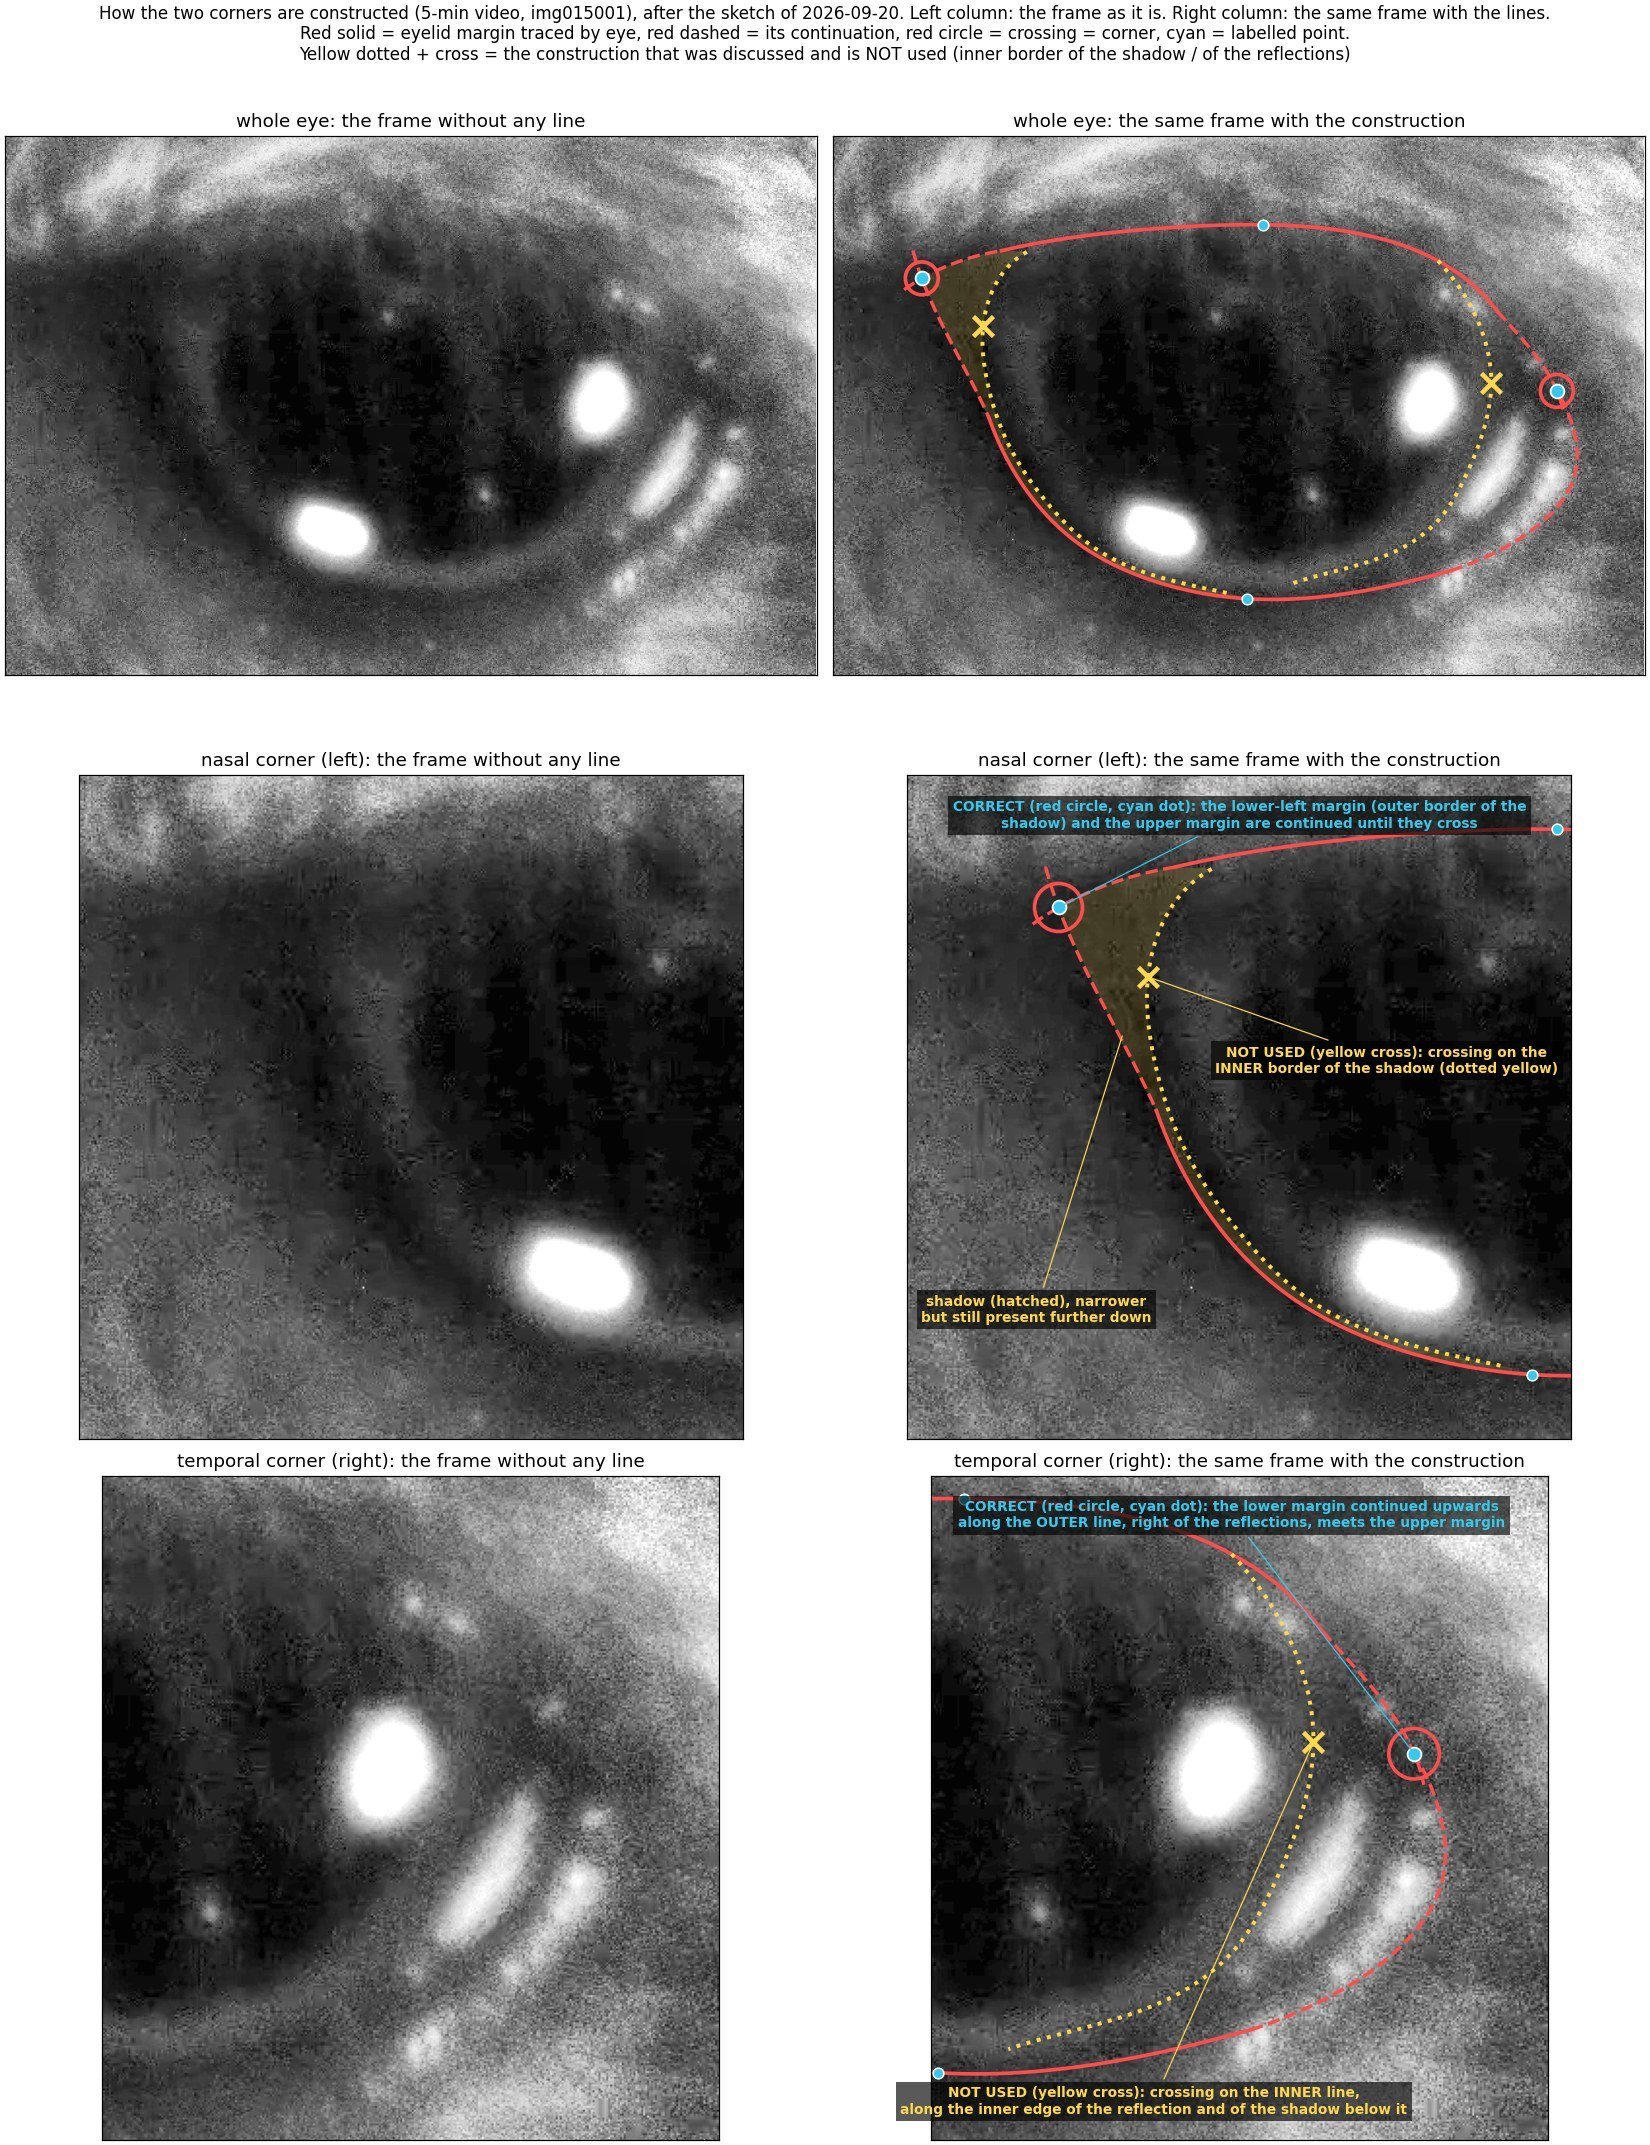
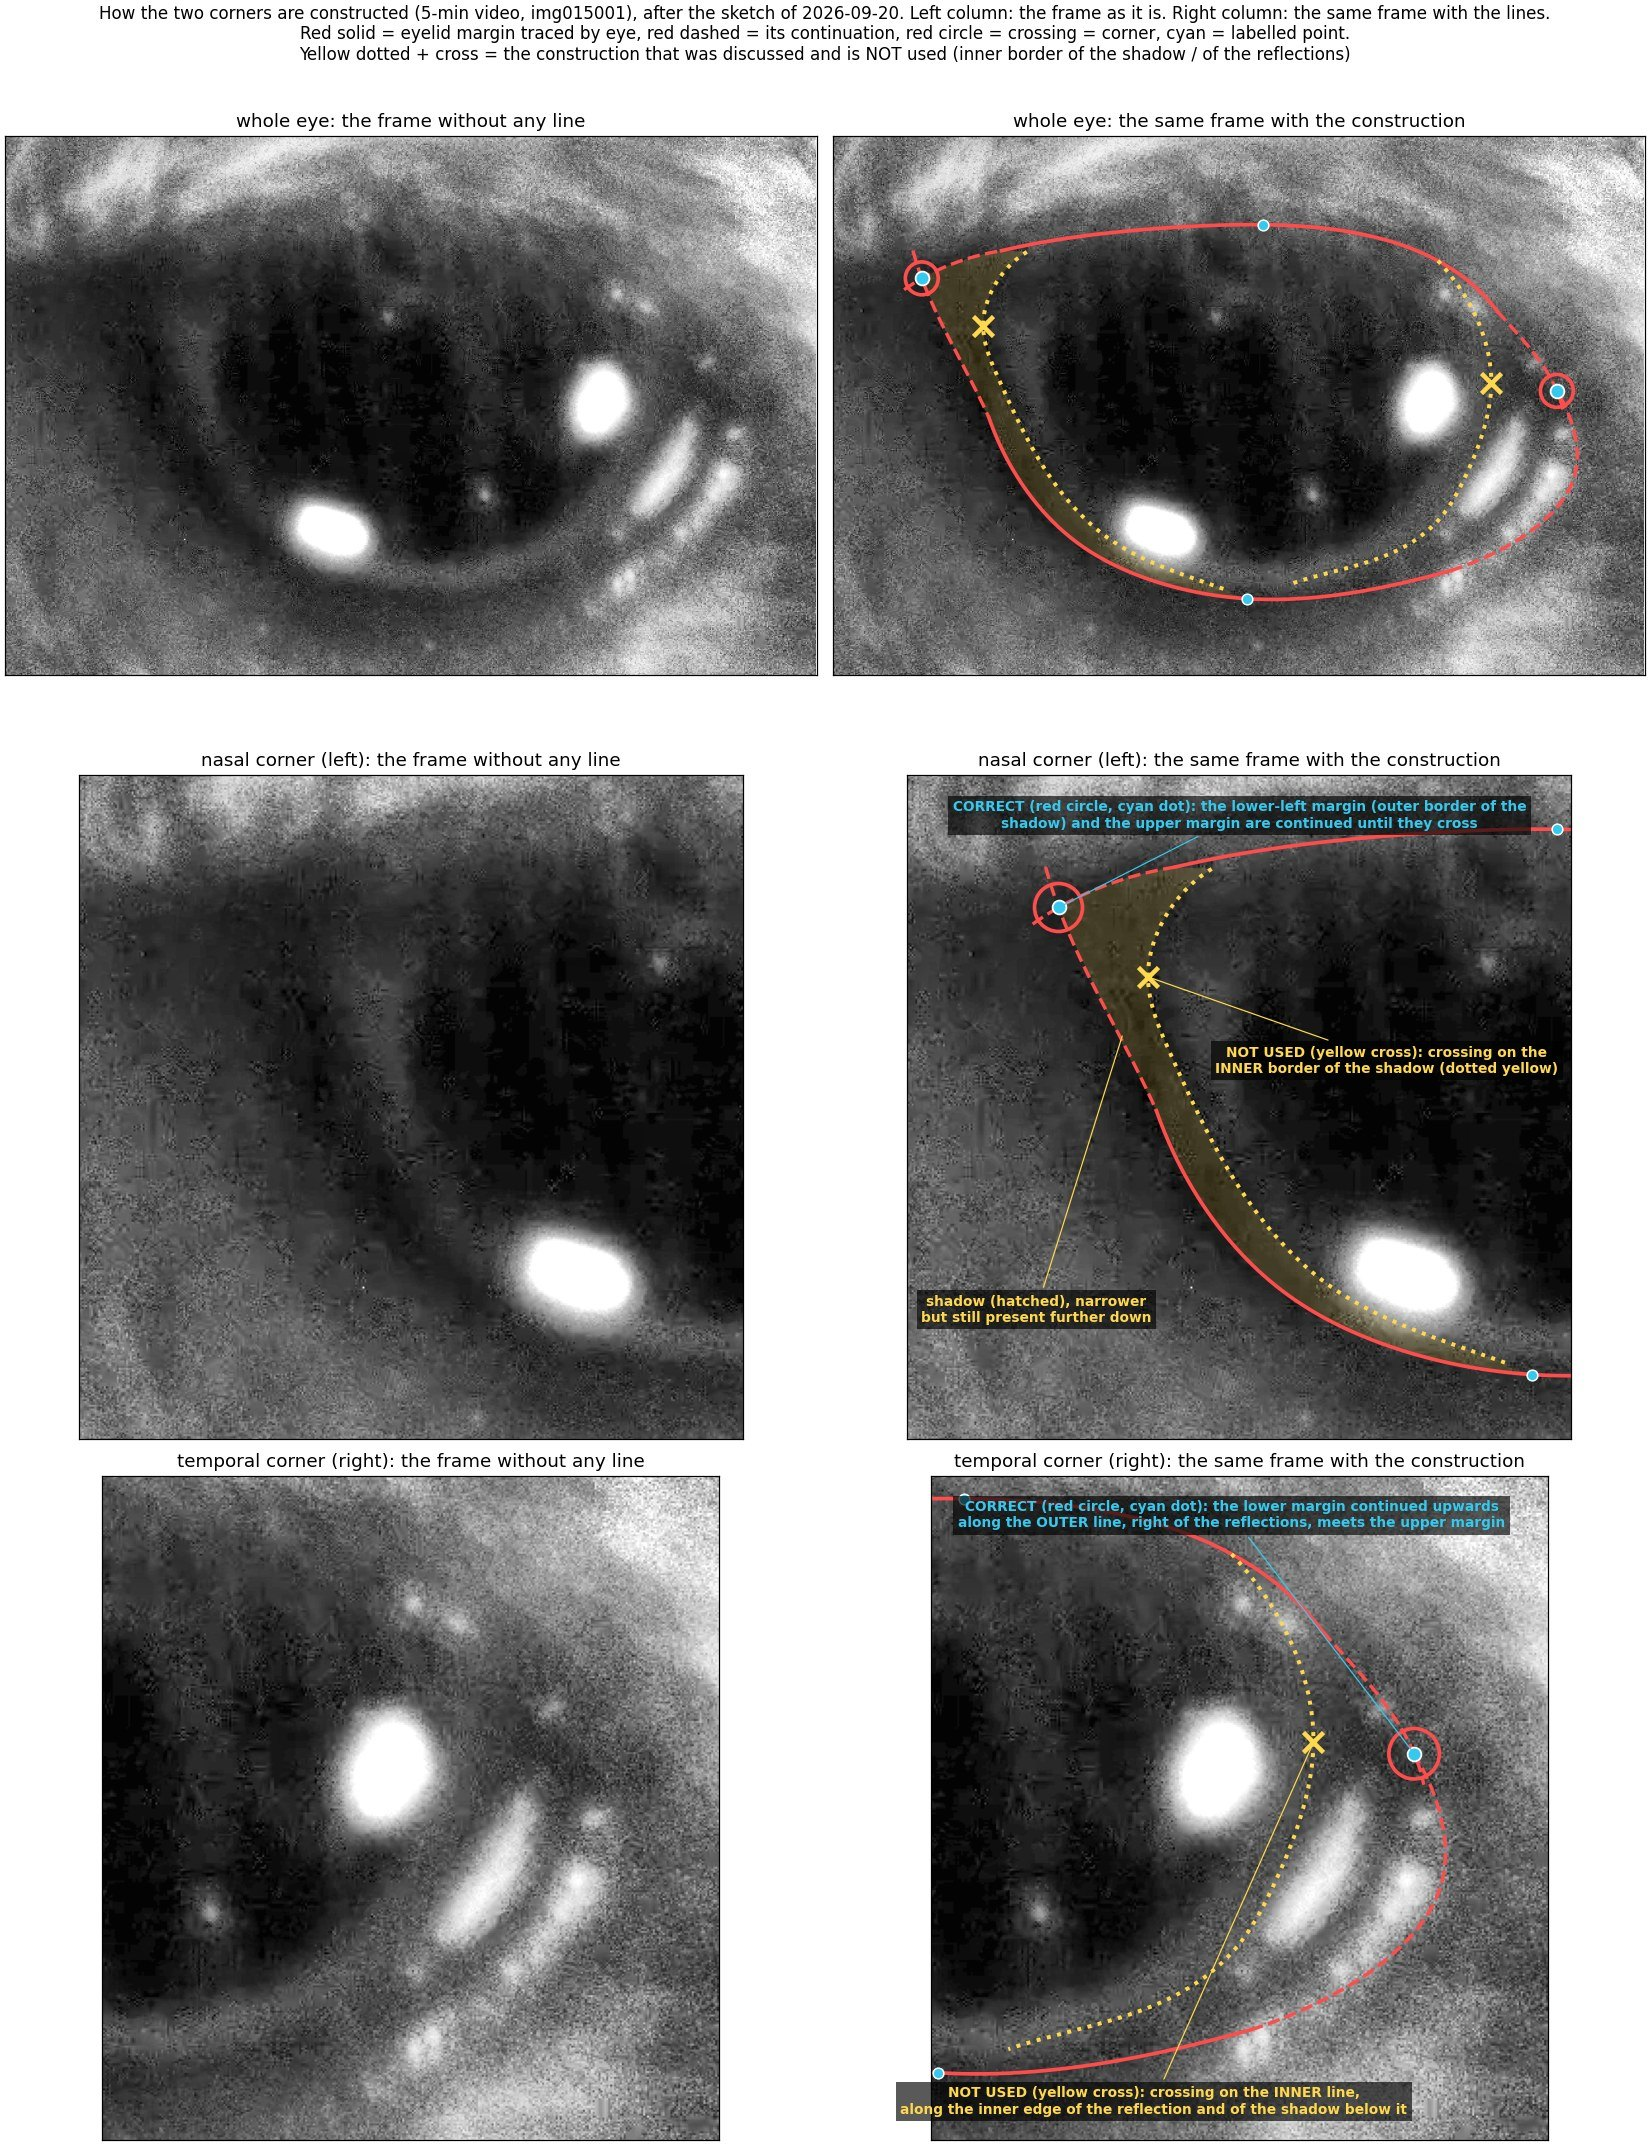
Corner figure: the not-used yellow line at the nasal corner moved inwards along the inner border of the shadow
Claude-Session: https://claude.ai/code/session_017MK5SWBFFQAu8ejFk1z7fh

Changed region(s): [[0.68, 0.4685, 0.8655, 0.6247], [0.5873, 0.1562, 0.7418, 0.2811], [0.8655, 0.6247, 0.8964, 0.6559]]

diff --git a/report/index.html b/report/index.html
@@ -72,7 +72,7 @@ math[display="block"]{margin:10px 0 6px;text-align:left;overflow-x:auto;max-widt
 
 <header>
   <h1><span lang="zh">小鼠眼睛关键点追踪：做了什么，结果是什么</span><span lang="en">Mouse eye keypoint tracking: what was done and what came out</span></h1>
-  <p class="muted small">Zhiheng Li (University of Minnesota), Kaiwen Sheng (Stanford) · <span lang="zh">页面生成时间</span><span lang="en">page built</span> 2026-10-04 13:17 · <a href="https://github.com/ZhihengLi0/mouse-behavior-tracking">GitHub: ZhihengLi0/mouse-behavior-tracking</a></p>
+  <p class="muted small">Zhiheng Li (University of Minnesota), Kaiwen Sheng (Stanford) · <span lang="zh">页面生成时间</span><span lang="en">page built</span> 2026-10-04 13:19 · <a href="https://github.com/ZhihengLi0/mouse-behavior-tracking">GitHub: ZhihengLi0/mouse-behavior-tracking</a></p>
 
   <div class="text" lang="zh">
     <p><b>任务：</b>用 DeepLabCut 在小鼠眼睛视频的每一帧上找 8 个点：瞳孔上、下、左、右，上眼睑、下眼睑，鼻侧眼角、颞侧眼角。由这 8 个点得到瞳孔大小、眼睛睁开程度和眨眼，之后与脑记录对齐。</p>

diff --git a/keypoint_definitions/scripts/make_figures.py b/keypoint_definitions/scripts/make_figures.py
@@ -170,7 +170,7 @@ LOWER_L = [tuple(n + (-7, -22)), tuple(n), (383, 428), (410, 482)]              
 LOWER_R = [(775, 603), (838, 572), (874, 524), (870, 484), tuple(t)]                             # outer line, right of the reflections
 an, at = xy(A, "eye_nasal_corner"), xy(A, "eye_temporal_corner")      # the alternative placement that was discussed and not adopted
 # yellow: the INNER border of the shadow / of the reflections, followed down to near the lower-eyelid point
-ALT_N = [(440, 351), (418, 372), tuple(an), (408, 450), (424, 500), (455, 548), (495, 586), (548, 609), (600, 621)]
+ALT_N = [(440, 351), (418, 372), tuple(an), (418, 452), (441, 500), (468, 542), (504, 577), (550, 601), (600, 619)]
 ALT_T = [(765, 358), (794, 400), tuple(at), (801, 492), (786, 530), (768, 560), (742, 582), (700, 599), (650, 613)]
 SHADOW = np.vstack([smooth(UPPER_L[1:]).T, smooth(ALT_N).T, smooth([(600, 621), tuple(eb)]).T, smooth(LOWER[:5]).T[::-1], smooth(LOWER_L[1:]).T[::-1]])
 
